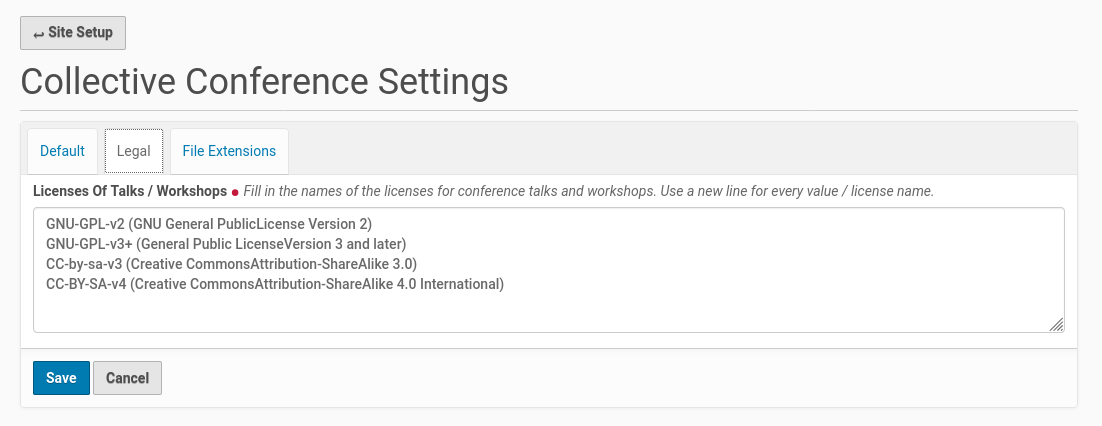
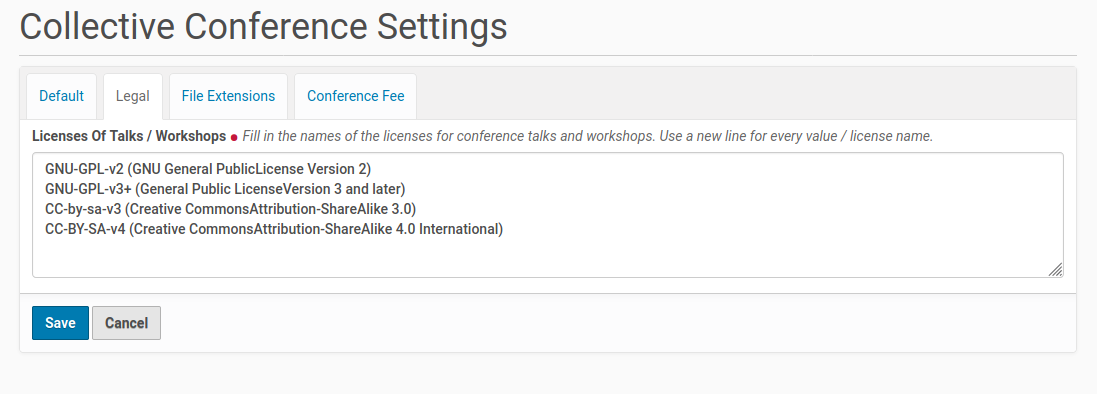
Update user documentation about configuration of the add-on.

diff --git a/docs/source/configuration.rst b/docs/source/configuration.rst
@@ -19,9 +19,9 @@ in the screenshot below.
 
 Tick the checkboxes in front of the entries 'Conference', 'Conference Call for Paper', 'Conference Program',
 'Conference Registration Folder', 'Conference Room', 'Conference Rooms Folder', 'Conference Speaker Folder',
-'Conference Talk/Workshop Folder' and 'Conference Track'. Then save your changes. The necessary steps to
-setup the navigation of your conference site are done. You should continue with the settings of the add-on
-(see the following chapter).
+'Conference Talk/Workshop Folder', 'Conference Training Folder' and 'Conference Track'. Then save your
+changes. The necessary steps to setup the navigation of your conference site are done. You should continue
+with the settings of the add-on (see the following chapter).
 
 
 Collective Conferences Settings
@@ -37,29 +37,38 @@ entry and you get a form with fields to configure the add-on.
    :width: 600
 
 The fields on the first register 'Default' collect the values for the length of conference breaks,
-talks and workshops. This fields comes already with some default value. You could replace this values
-with your own choice. Every single value needs a new line.
+talks, trainings and workshops. This fields comes already with some default value. You could replace
+this values with your own choice. Every single value needs a new line.
 
-The entries of the fields for talk and workshop length will be used to configure the available options
-for the talk and workshop proposal submitters to suggest a time slot. The values of the fields are also
-used by the conference organization committee to set the length of talks, workshops and conference breaks
+The entries of the fields for talk, training and workshop length will be used to configure the available options
+for the talk, training and workshop proposal submitters to suggest a time slot. The values of the fields are also
+used by the conference organization committee to set the length of talks, trainings, workshops and conference breaks
 in the conference program and its tracks.
 
-The second register 'Legal' currently holds only one field to list the licenses, talks and workshops could be
-submitted. This field came with some default values too. The default values could be replaced by new entries.
-Every value needs a new line.
+There are also fields to set the level and the audience of trainings at the conference. This fields hold already
+some default values. You could replace them with your own choice / definitions, one value per line.
+
+The second register 'Legal' currently holds only one field to list the licenses, talks, trainings and workshops
+could be submitted under. This field came with some default values too. The default values could be replaced
+by new entries. Every value needs a new line.
 
 .. image:: images/configuration_collective_conferences_form2.png
    :width: 600
 
 The third register ''File Extensions' need your input about the allowed file extensions for images (e.g.
-pictures), for talk and workshop slides, for additional talk and workshop material and conference videos.
-If there are different file extensions allowed for this file categories you could enter this file extensions
-seperated by a pipe into the form fields, e.g.: 'odp|pdf' for slides.
+pictures), for talk, training and workshop slides, for additional talk, training and workshop material
+and conference videos. If there are different file extensions allowed for this file categories you could
+enter this file extensions seperated by a pipe into the form fields, e.g.: 'odp|pdf' for slides.
 
 .. image:: images/configuration_collective_conferences_form3.png
    :width: 600
 
+The fourth register is used to configure a potential conference fee. The default value is 'no'
+conference fee. If the conference visitors had to pay a fee the payment options could be set in
+the appropriate field on this register. Every payment option needs to be written in a separate
+line.
+
 Once you finished the configuration within the fields of all three register save your changes.
-This will write some new entries to the 'Configuration Registry' of the Plone site. This new Configuration
-Registry entries will be used for the dynamic content of the edit forms of talks and workshops.
+This will write some new entries to the 'Configuration Registry' of the Plone site. This new
+Configuration Registry entries will be used for the dynamic content of the edit forms of
+talks, trainings and workshops.
